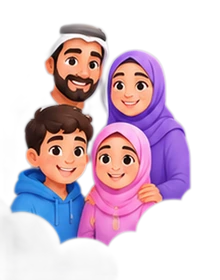
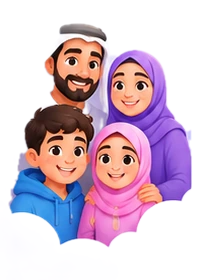
Add files via upload

diff --git a/src/components/portal/KidParentPortalPage.tsx b/src/components/portal/KidParentPortalPage.tsx
@@ -1,4 +1,4 @@
-import { Globe, LogOut, Trophy } from "lucide-react";
+import { Globe, LogOut } from "lucide-react";
 import { useTranslation } from "react-i18next";
 import Logo from "../common/Logo";
 import ThemeToggle from "../common/ThemeToggle";
@@ -12,36 +12,21 @@ import booksPlant from "../../assets/kid-parent-portal/booksplant-topleft.webp";
 import owl from "../../assets/kid-parent-portal/owl-topright.webp";
 import family from "../../assets/kid-parent-portal/family-bottomleft.webp";
 import pencils from "../../assets/kid-parent-portal/pencils-bottomright.webp";
-import trophyGold from "../../assets/kid-parent-portal/trophy-gold.webp";
-import trophySilver from "../../assets/kid-parent-portal/trophy-silver.webp";
-import trophyBronze from "../../assets/kid-parent-portal/trophy-bronze.webp";
 import type { Announcement, ClassRanking } from "../../types";
-
-const TROPHIES = [trophyGold, trophySilver, trophyBronze];
 
 /**
  * Kid-mode parent portal (post sign-in). Mirrors ParentPortalPage's classic
- * layout one-for-one in substance — same child tabs, same live child data via
+ * layout one-for-one — same child tabs, same live child data via
  * KidChildPanel, same announcements and same per-class weekly-champions
- * boards, same floating WhatsApp button — restyled to the reference design.
- *
- * The one new piece the design calls for, "Champions — My Family", has no
- * backing feature of its own: it's built here from the live name+points
- * already being tracked for every linked child (childrenSummary), ranked
- * client-side. It only renders with 2+ children, since ranking one child
- * against itself isn't meaningful.
- *
- * Announcements and the class-wide weekly-champions boards aren't part of
- * the reference image, but dropping them would remove a working feature, so
- * they're appended below the redesigned content — same approach as the kid
- * teacher dashboard.
+ * boards (WeeklyChampions, unchanged — including any board whose class
+ * happens to be named so it reads "Champions — My Family"), same floating
+ * WhatsApp button — restyled to the reference design.
  */
 export default function KidParentPortalPage({
   studentIds,
   currentStudentId,
   onSelectStudent,
   onChildRemoved,
-  childrenSummary,
   announcements,
   rankings,
   contactHref,
@@ -53,7 +38,6 @@ export default function KidParentPortalPage({
   currentStudentId: string;
   onSelectStudent: (studentId: string) => void;
   onChildRemoved: (studentId: string) => void;
-  childrenSummary: Record<string, { name: string; points: number }>;
   announcements: Announcement[];
   rankings: ClassRanking[];
   contactHref: string | null;
@@ -63,17 +47,11 @@ export default function KidParentPortalPage({
 }) {
   const { t } = useTranslation();
 
-  const champions = studentIds
-    .map((sid) => ({ sid, ...childrenSummary[sid] }))
-    .filter((c): c is { sid: string; name: string; points: number } => !!c.name)
-    .sort((a, b) => b.points - a.points)
-    .slice(0, 3);
-
   return (
     <div className="relative min-h-screen overflow-x-hidden" style={{ background: KID_SKY_BACKGROUND }}>
       {/* ───────────── scenery (decorative, fixed to the viewport corners) ───────────── */}
       <div className="pointer-events-none fixed inset-0 z-0 select-none" aria-hidden="true">
-        <img src={booksPlant} alt="" className="absolute bottom-0 left-0 hidden w-40 lg:block xl:w-48" />
+        <img src={booksPlant} alt="" className="absolute left-0 top-16 hidden w-40 lg:block xl:w-48" />
         <img src={owl} alt="" className="absolute right-0 top-16 hidden w-36 lg:block xl:w-44" />
         <img src={family} alt="" className="absolute bottom-0 left-0 hidden w-44 xl:block" />
         <img src={pencils} alt="" className="absolute bottom-24 right-0 hidden w-40 lg:block xl:w-48" />
@@ -120,27 +98,6 @@ export default function KidParentPortalPage({
             {rankings.map((r) => (
               <WeeklyChampions key={r.classId} ranking={r} classLabel={r.className} />
             ))}
-          </div>
-        )}
-
-        {/* Champions — My Family */}
-        {champions.length >= 2 && (
-          <div className="rounded-[1.75rem] border border-white bg-white/95 p-6 shadow-[0_18px_34px_-24px_rgba(90,60,200,0.45)]">
-            <div className="mb-5 flex items-center gap-2.5">
-              <Trophy size={20} className="text-gold-500" />
-              <h2 className="text-lg font-extrabold text-navy-700">{t("portal.familyChampions")}</h2>
-            </div>
-            <div className="flex flex-wrap justify-center gap-6 sm:justify-start sm:gap-10">
-              {champions.map((c, i) => (
-                <div key={c.sid} className="flex flex-col items-center gap-2">
-                  <img src={TROPHIES[i]} alt="" className="h-16 w-16" />
-                  <span className="text-sm font-extrabold text-navy-700">{c.name}</span>
-                  <span className="rounded-full bg-navy-700 px-3 py-1 text-xs font-extrabold text-white">
-                    {c.points} {t("students.points")}
-                  </span>
-                </div>
-              ))}
-            </div>
           </div>
         )}
 

diff --git a/src/pages/portal/ParentPortalPage.tsx b/src/pages/portal/ParentPortalPage.tsx
@@ -345,11 +345,6 @@ export default function ParentPortalPage() {
   const [removedStudentIds, setRemovedStudentIds] = useState<string[]>([]);
   const alertedRemovalsRef = useRef<Set<string>>(new Set());
   const [whatsappByStudent, setWhatsappByStudent] = useState<Record<string, string | undefined>>({});
-  // Live name + points for every linked child (not just the active tab) —
-  // used only by kid mode's "Champions — My Family" ranking. Piggybacks on
-  // the same per-student subscription pattern as whatsappByStudent below
-  // rather than adding a second set of listeners.
-  const [childrenSummary, setChildrenSummary] = useState<Record<string, { name: string; points: number }>>({});
 
   const studentIds = (portalParent?.studentIds || []).filter((id) => !removedStudentIds.includes(id));
 
@@ -394,19 +389,11 @@ export default function ParentPortalPage() {
   useEffect(() => {
     if (studentIds.length === 0) {
       setWhatsappByStudent({});
-      setChildrenSummary({});
       return;
     }
     const unsubscribes = studentIds.map((sid) =>
       subscribeToStudent(sid, (data) => {
         setWhatsappByStudent((prev) => ({ ...prev, [sid]: data?.teacherWhatsapp }));
-        setChildrenSummary((prev) => {
-          if (!data) {
-            const { [sid]: _removed, ...rest } = prev;
-            return rest;
-          }
-          return { ...prev, [sid]: { name: data.name, points: data.points } };
-        });
       })
     );
     return () => unsubscribes.forEach((unsub) => unsub());
@@ -509,7 +496,6 @@ export default function ParentPortalPage() {
         currentStudentId={currentStudentId}
         onSelectStudent={setActiveStudentId}
         onChildRemoved={handleChildRemoved}
-        childrenSummary={childrenSummary}
         announcements={announcements}
         rankings={visibleRankings}
         contactHref={contactHref}
